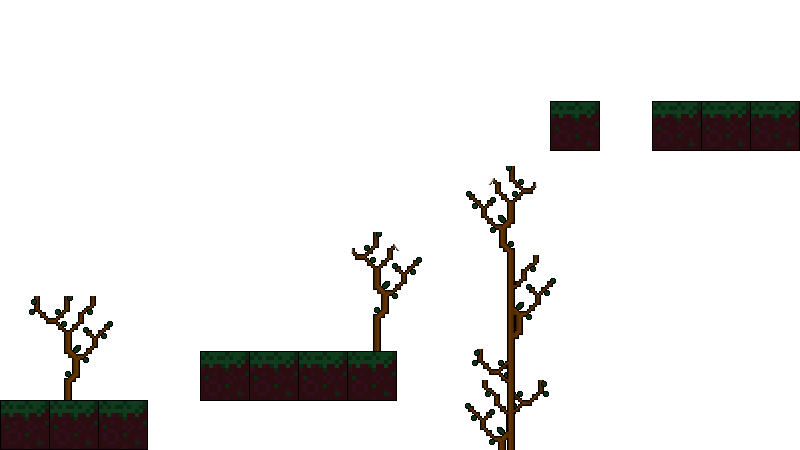
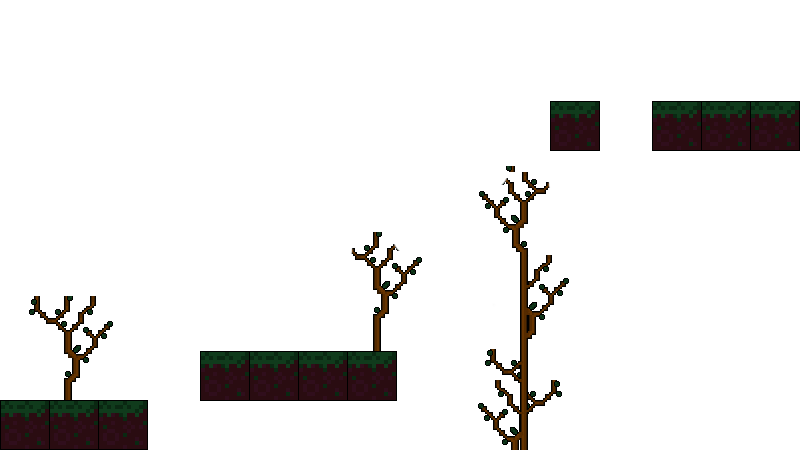
Creating Hitboxes Changing World State operation Improving code

Changed region(s): [[0.5625, 0.3733, 0.7188, 1.0]]

diff --git a/code/Const.py b/code/Const.py
@@ -3,27 +3,47 @@ C_WHITE = (255, 255, 255)
 C_YELLOW = (255, 255, 128)
 
 COLLISION_MAP_0 = [
-    [0, 0, 0, 0, 0, 0, 0, 0, 0, 0, 0, 0, 0, 0, 0, 0],
-    [0, 0, 0, 0, 0, 0, 0, 0, 0, 0, 0, 0, 0, 0, 0, 0],
-    [0, 0, 0, 0, 0, 0, 0, 0, 0, 0, 0, 1, 0, 1, 1, 1],
-    [0, 0, 0, 0, 0, 0, 0, 0, 0, 0, 1, 0, 0, 0, 0, 0],
-    [0, 0, 0, 0, 0, 0, 0, 1, 0, 0, 0, 0, 0, 0, 0, 0],
-    [1, 1, 1, 0, 0, 0, 0, 0, 0, 0, 0, 0, 0, 0, 0, 0],
-    [0, 0, 0, 0, 0, 0, 0, 0, 0, 0, 0, 0, 0, 0, 0, 0],
-    [0, 0, 0, 0, 1, 1, 1, 1, 0, 0, 0, 0, 0, 0, 0, 0],
-    [1, 1, 1, 0, 0, 0, 0, 0, 0, 0, 0, 0, 0, 0, 0, 0],
+    [0, 0, 0, 0, 0, 0, 0, 0, 0, 0, 0, 0, 0, 0, 0, 0, 0, 0, 0, 0, 0, 0, 0, 0, 0, 0, 0, 0, 0, 0, 0, 0],
+    [0, 0, 0, 0, 0, 0, 0, 0, 0, 0, 0, 0, 0, 0, 0, 0, 0, 0, 0, 0, 0, 0, 0, 0, 0, 0, 0, 0, 0, 0, 0, 0],
+    [0, 0, 0, 0, 0, 0, 0, 0, 0, 0, 0, 0, 0, 0, 0, 0, 0, 0, 0, 0, 0, 0, 0, 0, 0, 0, 0, 0, 0, 0, 0, 0],
+    [0, 0, 0, 0, 0, 0, 0, 0, 0, 0, 0, 0, 0, 0, 0, 0, 0, 0, 0, 0, 0, 0, 0, 0, 0, 0, 0, 0, 0, 0, 0, 0],
+    [0, 0, 0, 0, 0, 0, 0, 0, 0, 0, 0, 0, 0, 0, 0, 0, 0, 0, 0, 0, 0, 0, 1, 1, 0, 0, 1, 1, 1, 1, 1, 1],
+    [0, 0, 0, 0, 0, 0, 0, 0, 0, 0, 0, 0, 0, 0, 0, 0, 0, 0, 0, 0, 0, 0, 1, 1, 0, 0, 1, 1, 1, 1, 1, 1],
+    [0, 0, 0, 0, 0, 0, 0, 0, 0, 0, 0, 0, 0, 0, 0, 0, 0, 0, 0, 0, 1, 1, 0, 0, 0, 0, 0, 0, 0, 0, 0, 0],
+    [0, 0, 0, 0, 0, 0, 0, 0, 0, 0, 0, 0, 0, 0, 0, 0, 0, 0, 0, 0, 1, 1, 0, 0, 0, 0, 0, 0, 0, 0, 0, 0],
+    [0, 0, 0, 0, 0, 0, 0, 0, 0, 0, 0, 0, 0, 0, 0, 0, 0, 0, 0, 0, 0, 0, 0, 0, 0, 0, 0, 0, 0, 0, 0, 0],
+    [0, 0, 0, 0, 0, 0, 0, 0, 0, 0, 0, 0, 0, 0, 1, 1, 0, 0, 0, 0, 0, 0, 0, 0, 0, 0, 0, 0, 0, 0, 0, 0],
+    [0, 0, 0, 0, 0, 0, 0, 0, 0, 0, 0, 0, 0, 0, 1, 1, 0, 0, 0, 0, 0, 0, 0, 0, 0, 0, 0, 0, 0, 0, 0, 0],
+    [1, 1, 1, 1, 1, 1, 0, 0, 0, 0, 0, 0, 0, 0, 0, 0, 0, 0, 0, 0, 0, 0, 0, 0, 0, 0, 0, 0, 0, 0, 0, 0],
+    [1, 1, 1, 1, 1, 1, 0, 0, 0, 0, 0, 0, 0, 0, 0, 0, 0, 0, 0, 0, 0, 0, 0, 0, 0, 0, 0, 0, 0, 0, 0, 0],
+    [0, 0, 0, 0, 0, 0, 0, 0, 0, 0, 0, 0, 0, 0, 0, 0, 0, 0, 0, 0, 0, 0, 0, 0, 0, 0, 0, 0, 0, 0, 0, 0],
+    [0, 0, 0, 0, 0, 0, 0, 0, 1, 1, 1, 1, 1, 1, 1, 1, 0, 0, 0, 0, 0, 0, 0, 0, 0, 0, 0, 0, 0, 0, 0, 0],
+    [0, 0, 0, 0, 0, 0, 0, 0, 1, 1, 1, 1, 1, 1, 1, 1, 0, 0, 0, 0, 0, 0, 0, 0, 0, 0, 0, 0, 0, 0, 0, 0],
+    [1, 1, 1, 1, 1, 1, 0, 0, 0, 0, 0, 0, 0, 0, 0, 0, 0, 0, 0, 0, 0, 0, 0, 0, 0, 0, 0, 0, 0, 0, 0, 0],
+    [1, 1, 1, 1, 1, 1, 0, 0, 0, 0, 0, 0, 0, 0, 0, 0, 0, 0, 0, 0, 0, 0, 0, 0, 0, 0, 0, 0, 0, 0, 0, 0],
+
 ]
 
 COLLISION_MAP_1 = [
-    [0, 0, 0, 0, 0, 0, 0, 0, 0, 0, 0, 0, 1, 0, 0, 0],
-    [0, 0, 0, 0, 0, 0, 0, 0, 0, 0, 0, 0, 1, 0, 0, 0],
-    [0, 0, 0, 0, 0, 0, 0, 0, 0, 0, 0, 1, 1, 1, 1, 1],
-    [0, 0, 0, 0, 0, 0, 0, 0, 1, 0, 0, 0, 0, 0, 0, 0],
-    [0, 0, 0, 0, 1, 1, 0, 0, 0, 0, 0, 0, 0, 0, 0, 0],
-    [0, 0, 0, 0, 0, 0, 0, 0, 0, 0, 0, 0, 0, 0, 0, 0],
-    [0, 0, 0, 0, 0, 0, 0, 0, 0, 0, 0, 0, 0, 0, 0, 0],
-    [0, 0, 0, 0, 1, 1, 1, 1, 0, 0, 0, 0, 0, 0, 0, 0],
-    [1, 1, 1, 0, 0, 0, 0, 0, 0, 0, 0, 0, 0, 0, 0, 0],
+    [0, 0, 0, 0, 0, 0, 0, 0, 0, 0, 0, 0, 0, 0, 0, 0, 0, 0, 0, 0, 0, 0, 0, 0, 1, 1, 0, 0, 0, 0, 0, 0],
+    [0, 0, 0, 0, 0, 0, 0, 0, 0, 0, 0, 0, 0, 0, 0, 0, 0, 0, 0, 0, 0, 0, 0, 0, 1, 1, 0, 0, 0, 0, 0, 0],
+    [0, 0, 0, 0, 0, 0, 0, 0, 0, 0, 0, 0, 0, 0, 0, 0, 0, 0, 0, 0, 0, 0, 0, 0, 1, 1, 0, 0, 0, 0, 0, 0],
+    [0, 0, 0, 0, 0, 0, 0, 0, 0, 0, 0, 0, 0, 0, 0, 0, 0, 0, 0, 0, 0, 0, 0, 0, 1, 1, 0, 0, 0, 0, 0, 0],
+    [0, 0, 0, 0, 0, 0, 0, 0, 0, 0, 0, 0, 0, 0, 0, 0, 0, 0, 0, 0, 0, 0, 1, 1, 1, 1, 1, 1, 1, 1, 1, 1],
+    [0, 0, 0, 0, 0, 0, 0, 0, 0, 0, 0, 0, 0, 0, 0, 0, 0, 0, 0, 0, 0, 0, 1, 1, 1, 1, 1, 1, 1, 1, 1, 1],
+    [0, 0, 0, 0, 0, 0, 0, 0, 0, 0, 0, 0, 0, 0, 0, 0, 0, 0, 0, 0, 0, 0, 0, 0, 0, 0, 0, 0, 0, 0, 0, 0],
+    [0, 0, 0, 0, 0, 0, 0, 0, 0, 0, 0, 0, 0, 0, 0, 0, 1, 1, 0, 0, 0, 0, 0, 0, 0, 0, 0, 0, 0, 0, 0, 0],
+    [0, 0, 0, 0, 0, 0, 0, 0, 0, 0, 0, 0, 0, 0, 0, 0, 1, 1, 0, 0, 0, 0, 0, 0, 0, 0, 0, 0, 0, 0, 0, 0],
+    [0, 0, 0, 0, 0, 0, 0, 0, 1, 1, 1, 1, 0, 0, 0, 0, 0, 0, 0, 0, 0, 0, 0, 0, 0, 0, 0, 0, 0, 0, 0, 0],
+    [0, 0, 0, 0, 0, 0, 0, 0, 1, 1, 1, 1, 0, 0, 0, 0, 0, 0, 0, 0, 0, 0, 0, 0, 0, 0, 0, 0, 0, 0, 0, 0],
+    [0, 0, 0, 0, 0, 0, 0, 0, 0, 0, 0, 0, 0, 0, 0, 0, 0, 0, 0, 0, 0, 0, 0, 0, 0, 0, 0, 0, 0, 0, 0, 0],
+    [0, 0, 0, 0, 0, 0, 0, 0, 0, 0, 0, 0, 0, 0, 0, 0, 0, 0, 0, 0, 0, 0, 0, 0, 0, 0, 0, 0, 0, 0, 0, 0],
+    [0, 0, 0, 0, 0, 0, 0, 0, 0, 0, 0, 0, 0, 0, 0, 0, 0, 0, 0, 0, 0, 0, 0, 0, 0, 0, 0, 0, 0, 0, 0, 0],
+    [0, 0, 0, 0, 0, 0, 0, 0, 1, 1, 1, 1, 1, 1, 1, 1, 0, 0, 0, 0, 0, 0, 0, 0, 0, 0, 0, 0, 0, 0, 0, 0],
+    [0, 0, 0, 0, 0, 0, 0, 0, 1, 1, 1, 1, 1, 1, 1, 1, 0, 0, 0, 0, 0, 0, 0, 0, 0, 0, 0, 0, 0, 0, 0, 0],
+    [1, 1, 1, 1, 1, 1, 0, 0, 0, 0, 0, 0, 0, 0, 0, 0, 0, 0, 0, 0, 0, 0, 0, 0, 0, 0, 0, 0, 0, 0, 0, 0],
+    [1, 1, 1, 1, 1, 1, 0, 0, 0, 0, 0, 0, 0, 0, 0, 0, 0, 0, 0, 0, 0, 0, 0, 0, 0, 0, 0, 0, 0, 0, 0, 0],
+
 ]
 
 # M
@@ -31,13 +51,13 @@ MENU_OPTION = ('JOGAR',
                'SAIR')
 
 # P
-PLAYER_JUMP = -15
+PLAYER_JUMP = -13
 PLAYER_GRAVITY = 1
 PLAYER_SPEED = 5
 PLAYER_START_POS = (10, 350)
 
 # T
-TILE_SIZE = 50
+TILE_SIZE = 25
 
 # W
 WIN_WIDTH = 800

diff --git a/code/Level.py b/code/Level.py
@@ -3,6 +3,7 @@ import sys
 import pygame
 from pygame import Surface
 
+from code.Const import COLLISION_MAP_0, COLLISION_MAP_1
 from code.Entity import Entity
 from code.EntityFactory import EntityFactory
 from code.Platform import Platform
@@ -12,8 +13,11 @@ class Level:
     def __init__(self, window: Surface, name: str):
         self.window = window
         self.name = name
+
         self.world_state = 0
+
         self.player = EntityFactory.get_entity('Player')
+
         self.platform_list: list[Platform] = []
         self.platform_list.extend(EntityFactory.get_entity(self.name + 'Plat'))
 
@@ -21,26 +25,32 @@ class Level:
         clock = pygame.time.Clock()
         while True:
             clock.tick(60)
-
-            self.window.fill((0, 0, 0))
-            for platform in self.platform_list:
-                if platform.state == -1 or platform.state == self.world_state:
-                    self.window.blit(source=platform.surf, dest=platform.rect)
-
-            self.window.blit(source=self.player.surf, dest=self.player.rect)
-
+            # events
             for event in pygame.event.get():
                 if event.type == pygame.QUIT:
                     pygame.quit()
                     sys.exit()
+
                 if event.type == pygame.KEYDOWN:
                     if event.key == pygame.K_SPACE:
                         if self.player.on_ground:
                             self.player.jump()
                             self.world_state = 1 - self.world_state
+
             keys = pygame.key.get_pressed()
             self.player.move(keys)
-            self.player.apply_gravity()
 
+            if self.world_state == 0:
+                self.player.apply_gravity(COLLISION_MAP_0)
+            else:
+                self.player.apply_gravity(COLLISION_MAP_1)
+
+            self.window.fill((0, 0, 0))
+
+            for platform in self.platform_list:
+                if platform.state == -1 or platform.state == self.world_state:
+                    self.window.blit(source=platform.surf, dest=platform.rect)
+
+            self.window.blit(source=self.player.surf, dest=self.player.rect)
 
             pygame.display.flip()

diff --git a/code/Player.py b/code/Player.py
@@ -1,6 +1,6 @@
 import pygame.key
 
-from code.Const import PLAYER_SPEED, WIN_WIDTH, PLAYER_JUMP, PLAYER_GRAVITY
+from code.Const import PLAYER_SPEED, WIN_WIDTH, PLAYER_JUMP, PLAYER_GRAVITY, TILE_SIZE
 from code.Entity import Entity
 
 
@@ -11,10 +11,12 @@ class Player(Entity):
         self.on_ground = True
 
     def move(self, keys):
+        # Moving left
         if keys[pygame.K_LEFT]:
             if self.rect.left > 0:
                 self.rect.x -= PLAYER_SPEED
 
+        # Moving right
         if keys[pygame.K_RIGHT]:
             if self.rect.right < WIN_WIDTH:
                 self.rect.x += PLAYER_SPEED
@@ -24,10 +26,22 @@ class Player(Entity):
             self.velocity_y = PLAYER_JUMP
             self.on_ground = False
 
-    def apply_gravity(self):
+    def apply_gravity(self, collision_map):
+
+        #gravity
         self.velocity_y += PLAYER_GRAVITY
         self.rect.y += self.velocity_y
-        if self.rect.bottom >= 400:
-            self.rect.bottom = 400
+
+        # actual_tile
+        tile_x = self.rect.centerx // TILE_SIZE
+        tile_y = self.rect.bottom // TILE_SIZE
+
+        # tile limits
+        if tile_y >= len(collision_map):
+            return
+
+        # ground collision
+        if collision_map[tile_y][tile_x] == 1:
+            self.rect.bottom = tile_y * TILE_SIZE
             self.velocity_y = 0
             self.on_ground = True

diff --git a/code/Platform.py b/code/Platform.py
@@ -2,9 +2,6 @@ from code.Entity import Entity
 
 
 class Platform(Entity):
-    def __init__(self, name: str, position: tuple, state: int):
+    def __init__(self, name: str, position: tuple, state:int = -1):
         super().__init__(name, position)
         self.state = state
-
-    def move(self):
-        pass